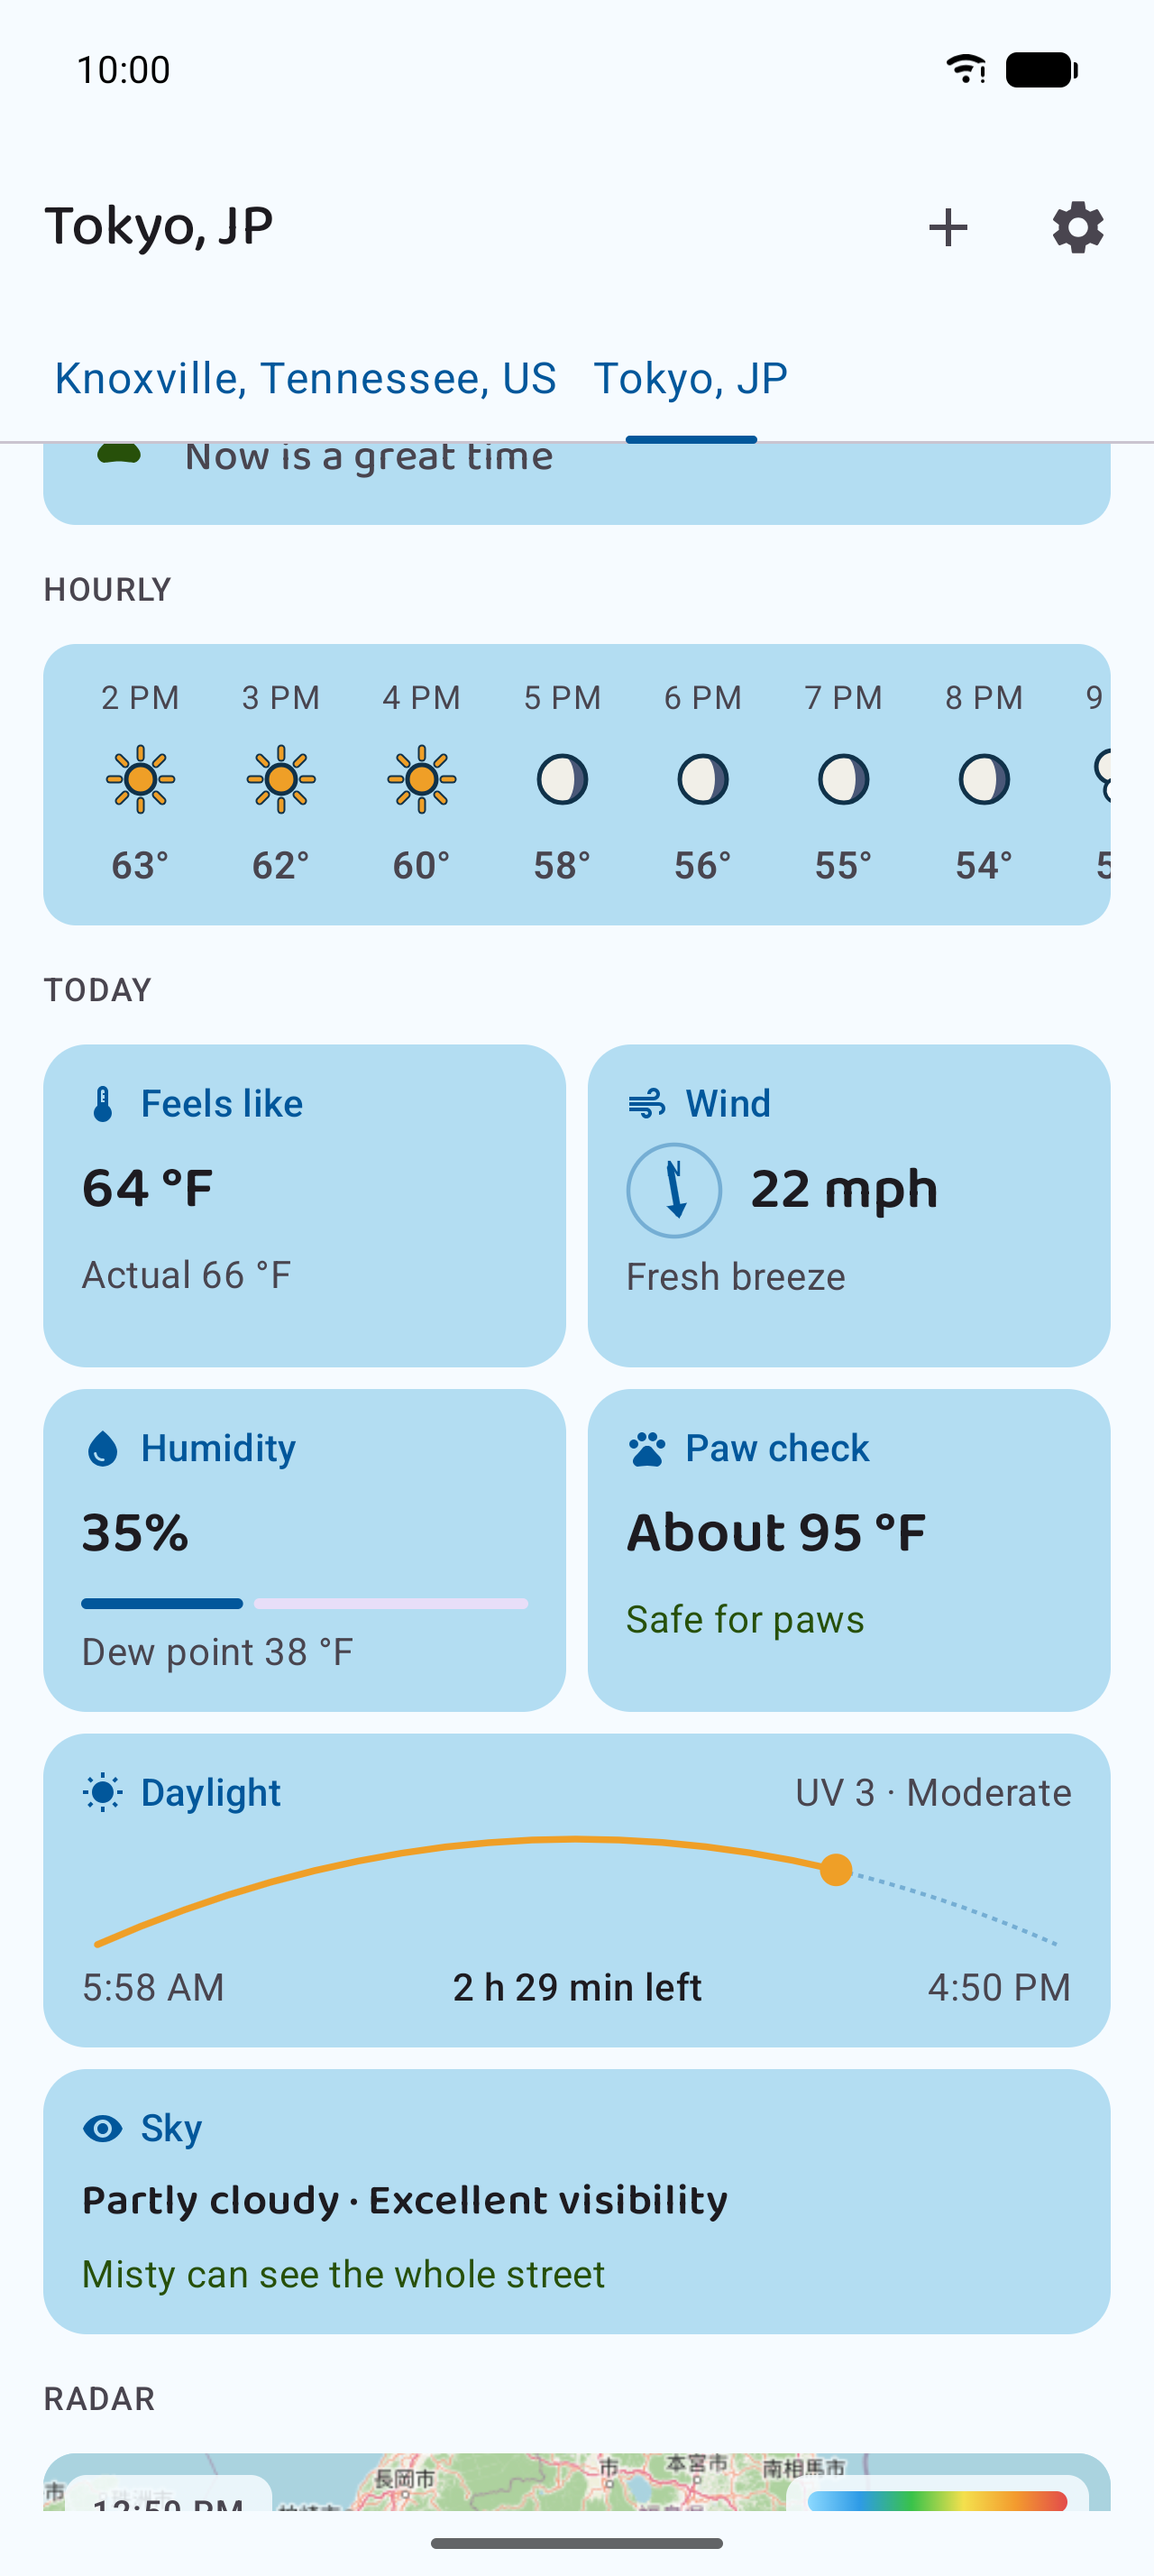
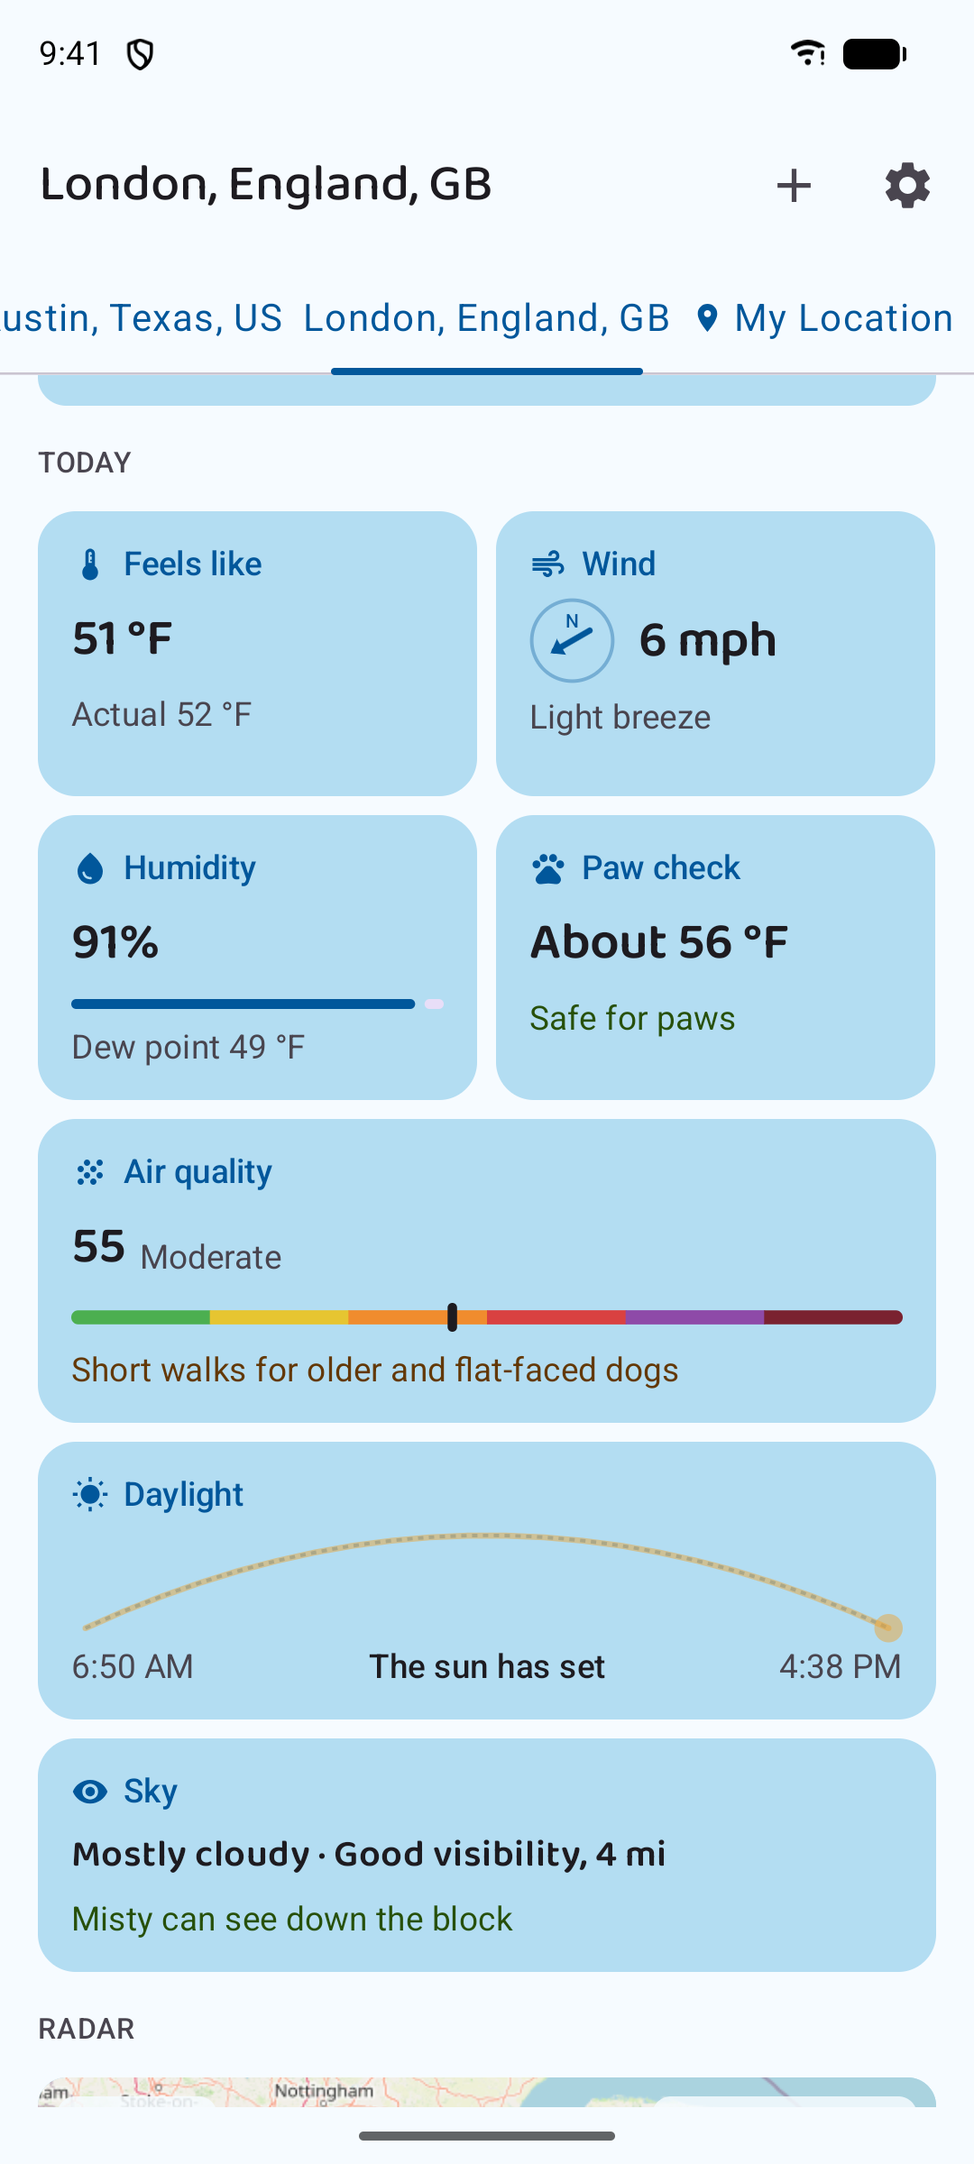
README: fresh screenshots, and a Play Store screenshot set
New README screenshots showing the full-width Air quality tile, and
screenshots/play-store/ with six 1080x1920 phone shots and two tablet shots.
The feature list now covers the Today tiles, air quality, bad air in the
walk planner and the update prompts.

diff --git a/README.md b/README.md
@@ -18,7 +18,8 @@ WorkManager, and CI on GitHub Actions.
 
 ## Features
 
-- **Current conditions** for any city: temperature, feels-like, daily min/max, humidity, wind
+- **Current conditions** for any city: temperature, feels-like, today's high and low (from the
+  day's forecast, over all of its hours), humidity, wind
   speed and direction ("0 mph", with no direction, when calm), visibility ("Clear" at
   OpenWeather's 10 km cap), cloud cover, UV index (daytime, from Open-Meteo), and sunrise/sunset.
 - **Pets that react to the weather**: Sunny the dog and Misty the cat, drawn in Compose, whose scene
@@ -34,6 +35,9 @@ WorkManager, and CI on GitHub Actions.
   around…", judged in the city's own UTC offset. The paw is tinted by the rating, and a caption
   explains hot pavement (naming the pavement only when it's the reason) or freezing weather. Users can turn it off in Settings (*I have a dog*, which hides the Paw check tile too), and
   `walk_card_enabled` hides it remotely.
+- **Bad air in the walk planner**: hours at US "Unhealthy" or worse (Europe's "Poor" and up) are
+  never suggested, and the walk card says "Bad air. Potty breaks only." when the air is bad now.
+  Heat still outranks it. The band is tunable with `walk_bad_air_band`.
 - **Next rain** line under the top card, only when rain or snow is due in the next 2 hours: "Rain
   starting around 3:15 PM", "Rain stopping around 4:30 PM" or "Rain for the next 2 hours", from
   Open-Meteo's 15-minute forecast (0.1 mm in 15 minutes counts; it stops after 30 dry minutes).
@@ -43,6 +47,16 @@ WorkManager, and CI on GitHub Actions.
   otherwise to the nearest 10%, as everywhere in the app). Hours that have
   already passed are dropped at display time (`fromCurrentSlot`), so a cached forecast or an app
   left open never shows or advises on past hours.
+- **Today tiles**: Feels like, Wind, Humidity, Paw check (with a dog) and Air quality in pairs, then
+  Daylight (with the UV index) and Sky across the full width. An odd tile out, usually Air quality
+  when Paw check is showing, takes the full width rather than leaving a gap.
+- **Air quality** tile: the index on the city's scale (Europe's for cities on a European clock, the
+  US one elsewhere), its band on a six-colour bar, and what it means for a walk, or for people
+  without a dog. It comes from Open-Meteo's hourly air quality forecast, fetched with the forecast in
+  one request and cached with it, so it shows offline too. `air_quality_enabled` switches it off.
+- **Update prompts**: below `android_min_supported_version` the app shows only "Time for an update";
+  below `android_min_recommended_version` a banner offers the update, and *Not now* hides it for a
+  week. Both open the Play Store listing.
 - **Weather icons** bundled as vector drawables, drawn in the pets' style with their navy outline so
   they read on light and dark cards. Night icons show the moon's phase for that hour, worked out
   from the date (no API).
@@ -80,15 +94,15 @@ WorkManager, and CI on GitHub Actions.
 
 ## Screenshots
 
-| Pets, walk time & hourly | Today tiles & Paw check | Radar & rest of week | Day detail | Settings |
+| Pets, walk time & hourly | Today tiles & air quality | Radar & rest of week | Day detail | Settings |
 |---|---|---|---|---|
-| ![Sunny and Misty react to the weather, with best walk time and the hourly strip](./screenshots/current.png) | ![Today's tiles: feels like, wind, humidity, Paw check, daylight and sky](./screenshots/today.png) | ![Animated RainViewer radar and the rest of the week](./screenshots/forecast.png) | ![Hour-by-hour temperature and rain chance for a day](./screenshots/day.png) | ![Settings with units, I have a dog and notifications](./screenshots/settings.png) |
+| ![Sunny and Misty react to the weather, with best walk time and the hourly strip](./screenshots/current.png) | ![Today's tiles: feels like, wind, humidity and Paw check in pairs, then Air quality, daylight and sky across the full width](./screenshots/today.png) | ![Animated RainViewer radar and the rest of the week](./screenshots/forecast.png) | ![Hour-by-hour temperature and rain chance for a day](./screenshots/day.png) | ![Settings with units, I have a dog and notifications](./screenshots/settings.png) |
 
 On tablets and in landscape, the pets sit beside today's details and the week splits into two columns:
 
-![Phone in landscape with the pets beside today's details](./screenshots/landscape.png)
+![Phone in landscape on a rainy day, with the pets beside today's details](./screenshots/landscape.png)
 
-![Tablet layout with the pets beside today's details](./screenshots/tablet.png)
+![Tablet layout with the pets beside today's tiles, Air quality across the full width](./screenshots/tablet.png)
 
 ## Getting started
 
@@ -125,6 +139,17 @@ also provides `KEYSTORE_PATH`, `KEYSTORE_PASSWORD`, `KEY_ALIAS`, and `KEY_PASSWO
 they build unsigned. CI writes these from the `KEYSTORE_BASE64`, `KEYSTORE_PASSWORD`, `KEY_ALIAS`,
 and `KEY_PASSWORD` Actions secrets when they are set, and uploads the debug and release APKs as
 build artifacts.
+
+### Play Store
+
+[`screenshots/play-store/`](screenshots/play-store/) holds the store screenshots, taken on an
+emulator with a clean status bar:
+
+- Phone, 1080 × 1920 (9:16; Play rejects anything longer than 2:1, so not the Pixel's 1080 × 2400).
+  Upload in this order: `01-welcome`, `02-today`, `03-rain-walk`, `04-radar-week`,
+  `05-day-detail`, `06-settings`.
+- Tablet: `tablet-01` (1600 × 2560, portrait) and `tablet-02` (2560 × 1600, landscape), for both
+  the 7-inch and 10-inch tablet slots.
 
 ## Architecture & tech stack
 
